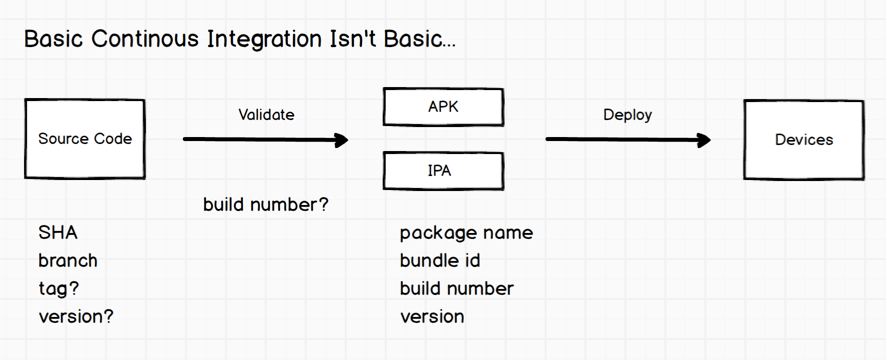
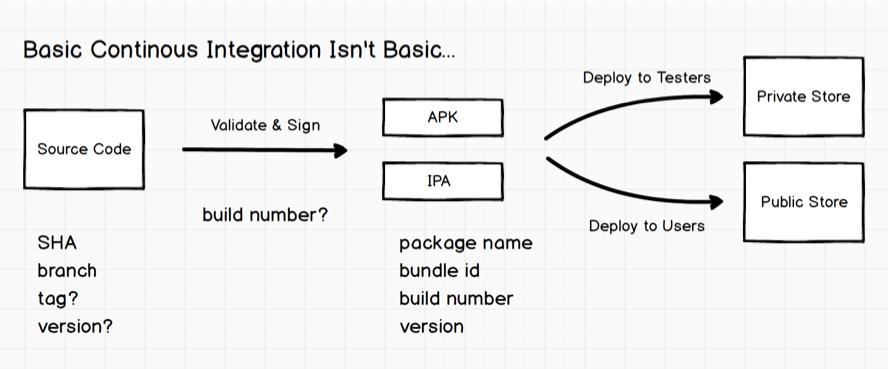
Got the signing working for sample 2

diff --git a/article/article.md b/article/article.md
@@ -12,7 +12,7 @@ We take our code, perform some kind of validation (such as testing, linting, wha
 
 Often though there's a bit more to it than that:
 
-![Basic CI is not Basic](/content/images/2017/02/2-basic-not-basic-1.png)
+![Basic CI is not Basic](/content/images/2017/03/2-basic-not-basic-1.png)
 
 Our source code has some metadata associated with it at the point in time you create your binaries, such as:
 
@@ -21,14 +21,12 @@ Our source code has some metadata associated with it at the point in time you cr
 - A tag, which may represent something like a semver, or may have more project-specific meaning.
 - A version, which might be in something like a `package.json` or embedded in your project files for iOS or Android.
 
-We might also try to keep some kind of build number, to track which build created a set of binaries.
+When we build we have to:
 
-On the apps themselves, we have things like:
-
-- Package names and bundle ids, which theoretically should be unique on a device, causing headaches if you are going to install multiple *versions* of an app (e.g. dev and UAT builds)
-- A build number and version number
-
-Ideally we want our CI to keep everything in sync. If I have an app running on a user's device, it should have a version number which is related to the code and we should be able to see the exact SHA from which the apps were created.
+- Think about how we test and validate
+- Think about how we sign
+- Handle package names and bundle ids, which can cause headaches if you are going to install multiple *versions* of an app (e.g. dev and UAT builds)
+- Consider build numbers and version number
 
 So even the 'basic' CI isn't all that basic. Before we dive into some specific tricks for managing these challenges we should first establish some basic principles for mobile app CI.
 
@@ -36,9 +34,9 @@ So even the 'basic' CI isn't all that basic. Before we dive into some specific t
 
 Some general principles it can be useful to follow are below. 
 
-- Developers should be able to run all of the key CI steps on their local machine, to be able to understand, adapt and develop the process.
+- Developers should be able to run all of the key CI steps on their local machine, to be able to understand, adapt and improve the process
 - When building more complex features, we should create small, simple units of work which can be composed into larger pipelines
-- Complexity, if needed, is in code - not in 'black box' CI tools.
+- Complexity, if needed, should be in in code - not in 'black box' CI tools
 
 ## Tip 1 - Embrace Makefiles
 
@@ -47,7 +45,7 @@ There are a raft of platform and framework specific tools and interfaces we will
 If you ensure that your main 'entrypoint' to key operations is a recipe in a makefile, you can provide a degree of consistency to mobile projects. For example:
 
 - `make build` - Creates an IPA and APK, saving them to the `./artifacts` folder.
-- `make tests` - Runs all test suites; perfect for CI.
+- `make tests` - Runs all test suites.
 - `make deploy` - Deploys the binaries.
 
 A `makefile` for such commands might look like this:
@@ -77,7 +75,9 @@ This is a slightly shortened snippet, you can see a working example here:
 
 [github.com/dwmkerr/beautifully-simple-app-ci/tree/master/1_react_native_app](https://github.com/dwmkerr/beautifully-simple-app-ci/tree/master/1_react_native_app)
 
-This example demonstrates using makefiles to handle key commands for a React Native app. CircleCI is used to handle automatic builds on code changes, and the apps themselves are distributed automatically to testers' devices with TestFairy.
+The example above example demonstrates using makefiles to handle key commands for a React Native app. In the example, CircleCI is used to handle automatic builds on code changes, and the apps themselves are distributed automatically to testers' devices with TestFairy. 
+
+The nice feature is that the meat of the logic is in the main repo, in the `makefile` - the CI tool simply orchestrates it. Developers can run exactly the same commands on their local machine.
 
 The [`README.md`](https://github.com/dwmkerr/beautifully-simple-app-ci/blob/master/1_react_native_app/README.md) immediately draws attention to the makefile commands:
 
@@ -86,15 +86,19 @@ The [`README.md`](https://github.com/dwmkerr/beautifully-simple-app-ci/blob/mast
 The makefiles do most of the work, that makes setting up CircleCI almost trivial. Here's a snippet of its config:
 
 ```
+# Tell Circle where we keep our artifacts.
 general:
   artifacts:
     - ./artifacts
 
+# When we test, we build the android app and test it.
 test:
   override:
     - make build-android
     - make test
 
+# If there are any changes to the master branch, push a new version
+# of the app.
 deployment:
   master:
     branch: [master]
@@ -121,3 +125,67 @@ Also, if a commit is made to the `master` branch, our new app is automatically p
 We'll see more interesting makefile recipes as we get into the other tips.
 
 ## Tip 2 - Create a 'Touch' Command to control version numbers
+
+iOS and Android apps have both a *version number* and a *build number*. We might have other files in our project with version numbers too (such as a `package.json` file).
+
+It can be very useful to have a way of keeping these version numbers in sync. Again, we can use a `makefile`:
+
+```bash
+make touch
+```
+
+This command will vary in implementation depending on your platform. For example, this would be all that is needed for a Cordova based project:
+
+```
+# The version in package.json is the 'master' version.
+VERSION ?= $(shell cat package.json | jq --raw-output .version)
+BUILD_NUM ?= 0
+
+touch:
+    $(info "Touching to version $(VERSION) and build number $(BUILD_NUM).")
+    sed -i "" -e 's/android-versionCode=\"[0-9]*\"/android-versionCode=\"$(BUILD_NUM)\"/g' ./config.xml
+    sed -i "" -e 's/ios-CFBundleVersion=\"[0-9]*\"/ios-CFBundleVersion=\"$(BUILD_NUM)\"/g' ./config.xml
+    sed -i "" -e 's/version=\"[.0-9a-zA-Z]*\"/version=\"$(VERSION)"/g' ./config.xml
+```
+
+Notice we don't really need complex tools for a job like this, `sed` is sufficient to quickly make changes to config files.
+
+This works very nicely with build systems, many of which provide a build number as an environment variable. For example, we can add a build number with CircleCI like so:
+
+```
+# Turn our CircleCI specific build number environment variable into
+# a plain old build number, used in the makefile.
+machine:
+    BUILD_NUM: $CIRCLE_BUILD_NUM
+
+# When we test, touch the versions, run the tests, then build.
+test:
+    override:
+      - make touch
+      - make test
+      - make build
+```
+
+A working example is available at:
+
+[github.com/dwmkerr/beautifully-simple-app-ci/2_ionic_app](https://github.com/dwmkerr/beautifully-simple-app-ci/tree/master/2_ionic_app)
+
+This sample will always set the build number 
+
+## TODO Brief Comparison of CI/CD platforms
+
+**CircleCI**
+
+- Very simple
+
+**TravisCI**
+
+- Support iOS builds out of the box for Open Source projects
+
+Others
+
+- Codecov
+- Coveralls
+- BuddyBuild
+- TestFairy
+- Crashlytics

diff --git a/2_ionic_app/README.md b/2_ionic_app/README.md
@@ -6,7 +6,7 @@ This app is a demo of the beautifully simple CI/CD process mentioned [here](../R
 |---------|-------|
 | `make test` | Runs all of the tests for the project. |
 | `make build` | Creates the IPA and APK binaries and saves them in the `./artifacts` folder. |
-| `make deploy` | Pushes the binaries to TestFairy. |
+| `make deploy` | Pushes the binaries to HockeyApp. |
 | - | - |
 | `ionic serve` | Runs the app in a browser locally. |
 | `ionic run android` | Runs the app in the Android emulator. |
@@ -32,7 +32,7 @@ You will also need to configure some environment variables. Put the followining 
 | Environment Variable | Usage |
 |----------------------|-------|
 | `IA_KEYSTORE_PASSWORD` | Provides the password for the Android Keystore. For this demo app, should be `p@ssw0rd`. |
-| `IA_CODE_SIGNING_IDENTITY` | The name of your Code Signing Identity (see [Setting up iOS Code Signing](#Setting-up-iOS-Code-Signing)) |
+| `IA_TEAM_ID` | Your team ID (see [Setting up iOS Code Signing](#Setting-up-iOS-Code-Signing)) |
 | `IA_HOCKEYAPP_TOKEN` | Your API token for uploading to [HockeyApp](https://www.hockeyapp.net). |
 
 ## Setting up iOS Code Signing
@@ -75,18 +75,7 @@ Policy: Code Signing
      2 valid identities found
 ```
 
-Copy the name of the **iPhone Distribution** identity from the **Valid identities** list, in this case `iPhone Developer: Dave Kerr (D2TKYQF77R)`. You must set the `IA_CODE_SIGNING_IDENTITY` environment variable to this value.
-
-### Troubleshooting iOS Code Signing
-
-**Application needs signing**
-
-Ensure you've followed the setup steps. Open the XCode Project, go to the build settings and ensure 'Automatically Manage Signing' is disabled. Manually set the release provisioning profile to the one you generated during the setup steps.
-
-Useful references:
-
-- https://circleci.com/docs/ios-code-signing/
-- https://facebook.github.io/react-native/releases/0.31/docs/running-on-device-ios.html
+Copy the name of the **iPhone Development** team id from the **Valid identities** list, in this case `iPhone Developer: Dave Kerr (D2TKYQF77R)`. You must set the ID in the `IA_TEAM_ID` environment variable to this value (e.g. `export IA_TEAM_ID=D2TKYQF77R`).
 
 ## Managing Android Keystores
 
